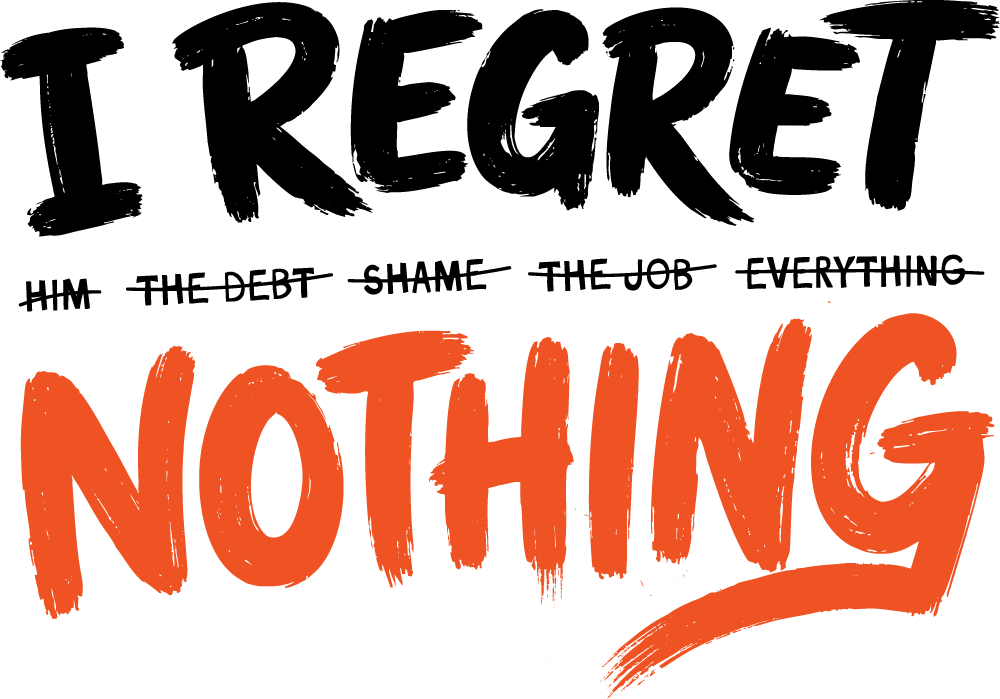
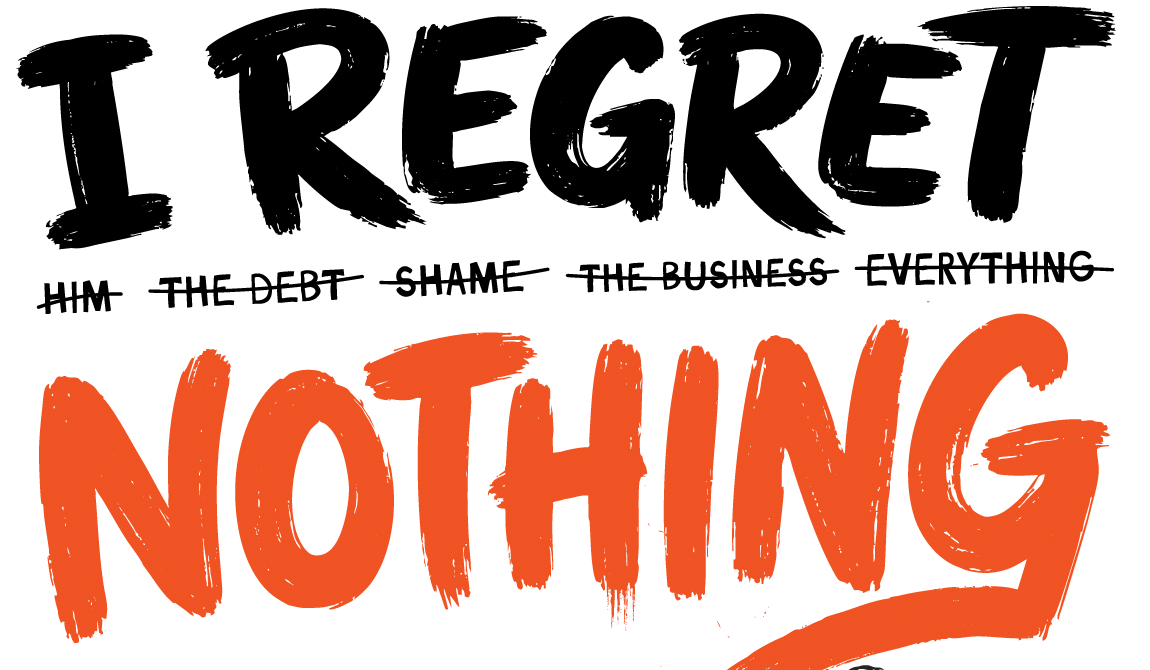
Add mobile-responsive layout and updated title graphic

diff --git a/Home.dc.html b/Home.dc.html
@@ -23,15 +23,25 @@
   a{color:inherit}
   input::placeholder{color:rgba(255,255,255,.5)}
   @keyframes irn-marquee{0%{transform:translateX(0)}100%{transform:translateX(-50%)}}
+  @media (max-width:760px){
+    .irn-nav{flex-direction:column;align-items:center;gap:12px}
+    .irn-navlinks{flex-wrap:wrap;justify-content:center;gap:10px 16px;font-size:13px}
+    .irn-stack{grid-template-columns:1fr !important;gap:32px !important}
+    .irn-stack-quote{margin-top:0 !important;transform:none !important;text-align:left}
+    .irn-marquee-txt{font-size:18px !important}
+  }
+  @media (max-width:460px){
+    .irn-navlinks{font-size:12px;gap:8px 12px}
+  }
 </style>
 </helmet>
 
 <div style="min-height:100vh;display:flex;flex-direction:column;overflow-x:hidden">
 
   <!-- ===================== NAV ===================== -->
-  <nav style="position:sticky;top:0;z-index:50;background:rgba(250,247,239,.92);backdrop-filter:blur(6px);border-bottom:2px dashed #161513;display:flex;align-items:center;justify-content:space-between;padding:16px clamp(20px,5vw,56px)">
+  <nav class="irn-nav" style="position:sticky;top:0;z-index:50;background:rgba(250,247,239,.92);backdrop-filter:blur(6px);border-bottom:2px dashed #161513;display:flex;align-items:center;justify-content:space-between;padding:16px clamp(20px,5vw,56px)">
     <a href="Home.dc.html" style="font-family:'French Aperitif';font-weight:700;font-size:24px;text-decoration:none;letter-spacing:.01em">i regret <span style="color:#E8451E">nothing</span></a>
-    <div style="display:flex;align-items:center;gap:clamp(14px,2.5vw,30px);font-family:'DM Mono';font-size:14px">
+    <div class="irn-navlinks" style="display:flex;align-items:center;gap:clamp(14px,2.5vw,30px);font-family:'DM Mono';font-size:14px">
       <a href="The Show.dc.html" style="text-decoration:none" style-hover="color:#E8451E">the show</a>
       <a href="Team.dc.html" style="text-decoration:none" style-hover="color:#E8451E">team</a>
       <a href="Tickets.dc.html" style="text-decoration:none" style-hover="color:#E8451E">tickets</a>
@@ -42,7 +52,7 @@
 
   <!-- ===================== HERO ===================== -->
   <header style="position:relative;padding:clamp(36px,6vw,72px) clamp(20px,5vw,56px) clamp(30px,4vw,52px);max-width:1240px;margin:0 auto;width:100%">
-    <div style="display:grid;grid-template-columns:minmax(0,1fr) clamp(240px,30%,360px);gap:clamp(24px,5vw,56px);align-items:center">
+    <div class="irn-stack" style="display:grid;grid-template-columns:minmax(0,1fr) clamp(240px,30%,360px);gap:clamp(24px,5vw,56px);align-items:center">
       <div>
         <div style="font-family:'DM Mono';font-size:15px;color:#E8451E;margin-bottom:20px;transform:rotate(-1deg);display:inline-block">a one-woman show ↓</div>
         <img src="assets/title.png" alt="I Regret Nothing — him, the debt, shame, the business, everything" style="width:100%;max-width:640px;display:block">
@@ -64,21 +74,21 @@
 
   <!-- ===================== DATE MARQUEE ===================== -->
   <div style="background:#161513;color:#FAF7EF;overflow:hidden;white-space:nowrap;padding:12px 0">
-    <div style="display:inline-block;white-space:nowrap;font-family:'French Aperitif';font-weight:700;font-size:22px;animation:irn-marquee 48s linear infinite">
+    <div class="irn-marquee-txt" style="display:inline-block;white-space:nowrap;font-family:'French Aperitif';font-weight:700;font-size:22px;animation:irn-marquee 48s linear infinite">
       <span style="padding-right:36px">SEPT 1–3 2026&nbsp;&nbsp;<span style="color:#E8451E">✦</span>&nbsp;&nbsp;NATIONAL UNION BUILDING&nbsp;&nbsp;<span style="color:#E8451E">✦</span>&nbsp;&nbsp;WASHINGTON D.C.&nbsp;&nbsp;<span style="color:#E8451E">✦</span></span><span style="padding-right:36px">SEPT 1–3 2026&nbsp;&nbsp;<span style="color:#E8451E">✦</span>&nbsp;&nbsp;NATIONAL UNION BUILDING&nbsp;&nbsp;<span style="color:#E8451E">✦</span>&nbsp;&nbsp;WASHINGTON D.C.&nbsp;&nbsp;<span style="color:#E8451E">✦</span></span><span style="padding-right:36px">SEPT 1–3 2026&nbsp;&nbsp;<span style="color:#E8451E">✦</span>&nbsp;&nbsp;NATIONAL UNION BUILDING&nbsp;&nbsp;<span style="color:#E8451E">✦</span>&nbsp;&nbsp;WASHINGTON D.C.&nbsp;&nbsp;<span style="color:#E8451E">✦</span></span><span style="padding-right:36px">SEPT 1–3 2026&nbsp;&nbsp;<span style="color:#E8451E">✦</span>&nbsp;&nbsp;NATIONAL UNION BUILDING&nbsp;&nbsp;<span style="color:#E8451E">✦</span>&nbsp;&nbsp;WASHINGTON D.C.&nbsp;&nbsp;<span style="color:#E8451E">✦</span></span><span style="padding-right:36px">SEPT 1–3 2026&nbsp;&nbsp;<span style="color:#E8451E">✦</span>&nbsp;&nbsp;NATIONAL UNION BUILDING&nbsp;&nbsp;<span style="color:#E8451E">✦</span>&nbsp;&nbsp;WASHINGTON D.C.&nbsp;&nbsp;<span style="color:#E8451E">✦</span></span><span style="padding-right:36px">SEPT 1–3 2026&nbsp;&nbsp;<span style="color:#E8451E">✦</span>&nbsp;&nbsp;NATIONAL UNION BUILDING&nbsp;&nbsp;<span style="color:#E8451E">✦</span>&nbsp;&nbsp;WASHINGTON D.C.&nbsp;&nbsp;<span style="color:#E8451E">✦</span></span>
     </div>
   </div>
 
   <!-- ===================== THE SHOW ===================== -->
   <section style="max-width:1240px;margin:0 auto;width:100%;padding:clamp(44px,6vw,84px) clamp(20px,5vw,56px)">
-    <div style="display:grid;grid-template-columns:minmax(0,1fr) clamp(220px,26%,300px);gap:clamp(28px,5vw,56px);align-items:start">
+    <div class="irn-stack" style="display:grid;grid-template-columns:minmax(0,1fr) clamp(220px,26%,300px);gap:clamp(28px,5vw,56px);align-items:start">
       <div>
         <div style="font-family:'DM Mono';font-size:13px;letter-spacing:.14em;text-transform:uppercase;color:#7c766a;margin-bottom:14px">the show</div>
         <h2 style="font-family:'French Aperitif';font-weight:700;font-size:clamp(34px,5vw,54px);line-height:1.02;margin:0 0 22px;max-width:16ch">A story about the things we put up with.</h2>
         <p style="font-size:clamp(16px,1.4vw,19px);line-height:1.75;max-width:60ch;color:#2e2c27;margin:0 0 18px">It's about the things people tolerate in relationships they never should've been in — and the shame that lingers long after. Sara's bet is simple: tell the truth out loud, and maybe everyone in the room feels a little less alone, and a lot less ashamed of things that were never theirs to carry.</p>
         <a href="The Show.dc.html" style="font-family:'DM Mono';font-size:15px;color:#E8451E;text-decoration:none;border-bottom:2px solid #E8451E;padding-bottom:2px">read what it's really about →</a>
       </div>
-      <div style="font-family:'French Aperitif';font-size:19px;line-height:1.35;color:#E8451E;transform:rotate(1.5deg);border-left:3px solid #E8451E;padding:4px 0 4px 16px;margin-top:36px">his name in her phone was <span style="font-weight:700">"Macho Gazpacho."</span> that's all you need to know.</div>
+      <div class="irn-stack-quote" style="font-family:'French Aperitif';font-size:19px;line-height:1.35;color:#E8451E;transform:rotate(1.5deg);border-left:3px solid #E8451E;padding:4px 0 4px 16px;margin-top:36px">his name in her phone was <span style="font-weight:700">"Macho Gazpacho."</span> that's all you need to know.</div>
     </div>
   </section>
 

diff --git a/index.html b/index.html
@@ -23,15 +23,25 @@
   a{color:inherit}
   input::placeholder{color:rgba(255,255,255,.5)}
   @keyframes irn-marquee{0%{transform:translateX(0)}100%{transform:translateX(-50%)}}
+  @media (max-width:760px){
+    .irn-nav{flex-direction:column;align-items:center;gap:12px}
+    .irn-navlinks{flex-wrap:wrap;justify-content:center;gap:10px 16px;font-size:13px}
+    .irn-stack{grid-template-columns:1fr !important;gap:32px !important}
+    .irn-stack-quote{margin-top:0 !important;transform:none !important;text-align:left}
+    .irn-marquee-txt{font-size:18px !important}
+  }
+  @media (max-width:460px){
+    .irn-navlinks{font-size:12px;gap:8px 12px}
+  }
 </style>
 </helmet>
 
 <div style="min-height:100vh;display:flex;flex-direction:column;overflow-x:hidden">
 
   <!-- ===================== NAV ===================== -->
-  <nav style="position:sticky;top:0;z-index:50;background:rgba(250,247,239,.92);backdrop-filter:blur(6px);border-bottom:2px dashed #161513;display:flex;align-items:center;justify-content:space-between;padding:16px clamp(20px,5vw,56px)">
+  <nav class="irn-nav" style="position:sticky;top:0;z-index:50;background:rgba(250,247,239,.92);backdrop-filter:blur(6px);border-bottom:2px dashed #161513;display:flex;align-items:center;justify-content:space-between;padding:16px clamp(20px,5vw,56px)">
     <a href="Home.dc.html" style="font-family:'French Aperitif';font-weight:700;font-size:24px;text-decoration:none;letter-spacing:.01em">i regret <span style="color:#E8451E">nothing</span></a>
-    <div style="display:flex;align-items:center;gap:clamp(14px,2.5vw,30px);font-family:'DM Mono';font-size:14px">
+    <div class="irn-navlinks" style="display:flex;align-items:center;gap:clamp(14px,2.5vw,30px);font-family:'DM Mono';font-size:14px">
       <a href="The Show.dc.html" style="text-decoration:none" style-hover="color:#E8451E">the show</a>
       <a href="Team.dc.html" style="text-decoration:none" style-hover="color:#E8451E">team</a>
       <a href="Tickets.dc.html" style="text-decoration:none" style-hover="color:#E8451E">tickets</a>
@@ -42,7 +52,7 @@
 
   <!-- ===================== HERO ===================== -->
   <header style="position:relative;padding:clamp(36px,6vw,72px) clamp(20px,5vw,56px) clamp(30px,4vw,52px);max-width:1240px;margin:0 auto;width:100%">
-    <div style="display:grid;grid-template-columns:minmax(0,1fr) clamp(240px,30%,360px);gap:clamp(24px,5vw,56px);align-items:center">
+    <div class="irn-stack" style="display:grid;grid-template-columns:minmax(0,1fr) clamp(240px,30%,360px);gap:clamp(24px,5vw,56px);align-items:center">
       <div>
         <div style="font-family:'DM Mono';font-size:15px;color:#E8451E;margin-bottom:20px;transform:rotate(-1deg);display:inline-block">a one-woman show ↓</div>
         <img src="assets/title.png" alt="I Regret Nothing — him, the debt, shame, the business, everything" style="width:100%;max-width:640px;display:block">
@@ -64,21 +74,21 @@
 
   <!-- ===================== DATE MARQUEE ===================== -->
   <div style="background:#161513;color:#FAF7EF;overflow:hidden;white-space:nowrap;padding:12px 0">
-    <div style="display:inline-block;white-space:nowrap;font-family:'French Aperitif';font-weight:700;font-size:22px;animation:irn-marquee 48s linear infinite">
+    <div class="irn-marquee-txt" style="display:inline-block;white-space:nowrap;font-family:'French Aperitif';font-weight:700;font-size:22px;animation:irn-marquee 48s linear infinite">
       <span style="padding-right:36px">SEPT 1–3 2026&nbsp;&nbsp;<span style="color:#E8451E">✦</span>&nbsp;&nbsp;NATIONAL UNION BUILDING&nbsp;&nbsp;<span style="color:#E8451E">✦</span>&nbsp;&nbsp;WASHINGTON D.C.&nbsp;&nbsp;<span style="color:#E8451E">✦</span></span><span style="padding-right:36px">SEPT 1–3 2026&nbsp;&nbsp;<span style="color:#E8451E">✦</span>&nbsp;&nbsp;NATIONAL UNION BUILDING&nbsp;&nbsp;<span style="color:#E8451E">✦</span>&nbsp;&nbsp;WASHINGTON D.C.&nbsp;&nbsp;<span style="color:#E8451E">✦</span></span><span style="padding-right:36px">SEPT 1–3 2026&nbsp;&nbsp;<span style="color:#E8451E">✦</span>&nbsp;&nbsp;NATIONAL UNION BUILDING&nbsp;&nbsp;<span style="color:#E8451E">✦</span>&nbsp;&nbsp;WASHINGTON D.C.&nbsp;&nbsp;<span style="color:#E8451E">✦</span></span><span style="padding-right:36px">SEPT 1–3 2026&nbsp;&nbsp;<span style="color:#E8451E">✦</span>&nbsp;&nbsp;NATIONAL UNION BUILDING&nbsp;&nbsp;<span style="color:#E8451E">✦</span>&nbsp;&nbsp;WASHINGTON D.C.&nbsp;&nbsp;<span style="color:#E8451E">✦</span></span><span style="padding-right:36px">SEPT 1–3 2026&nbsp;&nbsp;<span style="color:#E8451E">✦</span>&nbsp;&nbsp;NATIONAL UNION BUILDING&nbsp;&nbsp;<span style="color:#E8451E">✦</span>&nbsp;&nbsp;WASHINGTON D.C.&nbsp;&nbsp;<span style="color:#E8451E">✦</span></span><span style="padding-right:36px">SEPT 1–3 2026&nbsp;&nbsp;<span style="color:#E8451E">✦</span>&nbsp;&nbsp;NATIONAL UNION BUILDING&nbsp;&nbsp;<span style="color:#E8451E">✦</span>&nbsp;&nbsp;WASHINGTON D.C.&nbsp;&nbsp;<span style="color:#E8451E">✦</span></span>
     </div>
   </div>
 
   <!-- ===================== THE SHOW ===================== -->
   <section style="max-width:1240px;margin:0 auto;width:100%;padding:clamp(44px,6vw,84px) clamp(20px,5vw,56px)">
-    <div style="display:grid;grid-template-columns:minmax(0,1fr) clamp(220px,26%,300px);gap:clamp(28px,5vw,56px);align-items:start">
+    <div class="irn-stack" style="display:grid;grid-template-columns:minmax(0,1fr) clamp(220px,26%,300px);gap:clamp(28px,5vw,56px);align-items:start">
       <div>
         <div style="font-family:'DM Mono';font-size:13px;letter-spacing:.14em;text-transform:uppercase;color:#7c766a;margin-bottom:14px">the show</div>
         <h2 style="font-family:'French Aperitif';font-weight:700;font-size:clamp(34px,5vw,54px);line-height:1.02;margin:0 0 22px;max-width:16ch">A story about the things we put up with.</h2>
         <p style="font-size:clamp(16px,1.4vw,19px);line-height:1.75;max-width:60ch;color:#2e2c27;margin:0 0 18px">It's about the things people tolerate in relationships they never should've been in — and the shame that lingers long after. Sara's bet is simple: tell the truth out loud, and maybe everyone in the room feels a little less alone, and a lot less ashamed of things that were never theirs to carry.</p>
         <a href="The Show.dc.html" style="font-family:'DM Mono';font-size:15px;color:#E8451E;text-decoration:none;border-bottom:2px solid #E8451E;padding-bottom:2px">read what it's really about →</a>
       </div>
-      <div style="font-family:'French Aperitif';font-size:19px;line-height:1.35;color:#E8451E;transform:rotate(1.5deg);border-left:3px solid #E8451E;padding:4px 0 4px 16px;margin-top:36px">his name in her phone was <span style="font-weight:700">"Macho Gazpacho."</span> that's all you need to know.</div>
+      <div class="irn-stack-quote" style="font-family:'French Aperitif';font-size:19px;line-height:1.35;color:#E8451E;transform:rotate(1.5deg);border-left:3px solid #E8451E;padding:4px 0 4px 16px;margin-top:36px">his name in her phone was <span style="font-weight:700">"Macho Gazpacho."</span> that's all you need to know.</div>
     </div>
   </section>
 

diff --git a/Team.dc.html b/Team.dc.html
@@ -22,15 +22,23 @@
   ::selection{background:#E8451E;color:#fff}
   a{color:inherit}
   input::placeholder{color:#a8a196}
+  @media (max-width:760px){
+    .irn-nav{flex-direction:column;align-items:center;gap:12px}
+    .irn-navlinks{flex-wrap:wrap;justify-content:center;gap:10px 16px;font-size:13px}
+    .irn-stack{grid-template-columns:1fr !important;gap:24px !important}
+  }
+  @media (max-width:460px){
+    .irn-navlinks{font-size:12px;gap:8px 12px}
+  }
 </style>
 </helmet>
 
 <div style="min-height:100vh;display:flex;flex-direction:column;overflow-x:hidden">
 
   <!-- NAV -->
-  <nav style="position:sticky;top:0;z-index:50;background:rgba(250,247,239,.92);backdrop-filter:blur(6px);border-bottom:2px dashed #161513;display:flex;align-items:center;justify-content:space-between;padding:16px clamp(20px,5vw,56px)">
+  <nav class="irn-nav" style="position:sticky;top:0;z-index:50;background:rgba(250,247,239,.92);backdrop-filter:blur(6px);border-bottom:2px dashed #161513;display:flex;align-items:center;justify-content:space-between;padding:16px clamp(20px,5vw,56px)">
     <a href="Home.dc.html" style="font-family:'French Aperitif';font-weight:700;font-size:24px;text-decoration:none">i regret <span style="color:#E8451E">nothing</span></a>
-    <div style="display:flex;align-items:center;gap:clamp(14px,2.5vw,30px);font-family:'DM Mono';font-size:14px">
+    <div class="irn-navlinks" style="display:flex;align-items:center;gap:clamp(14px,2.5vw,30px);font-family:'DM Mono';font-size:14px">
       <a href="The Show.dc.html" style="text-decoration:none" style-hover="color:#E8451E">the show</a>
       <a href="Team.dc.html" style="text-decoration:none;color:#E8451E;border-bottom:2px solid #E8451E;padding-bottom:2px">team</a>
       <a href="Tickets.dc.html" style="text-decoration:none" style-hover="color:#E8451E">tickets</a>
@@ -47,7 +55,7 @@
 
   <!-- SARA -->
   <section style="max-width:1100px;margin:0 auto;width:100%;padding:clamp(24px,3vw,44px) clamp(20px,5vw,56px)">
-    <div style="display:grid;grid-template-columns:clamp(240px,34%,380px) minmax(0,1fr);gap:clamp(28px,5vw,56px);align-items:center">
+    <div class="irn-stack" style="display:grid;grid-template-columns:clamp(240px,34%,380px) minmax(0,1fr);gap:clamp(28px,5vw,56px);align-items:center">
       <div style="position:relative;transform:rotate(-1.5deg);justify-self:center">
         <div style="position:absolute;top:-16px;left:50%;margin-left:-58px;width:116px;height:26px;background:rgba(232,69,30,.32);transform:rotate(-3deg);z-index:2"></div>
         <div style="background:#fff;border:2px solid #161513;padding:14px 14px 10px;box-shadow:6px 8px 0 rgba(22,21,19,.14)">
@@ -66,7 +74,7 @@
 
   <!-- ANNA -->
   <section style="max-width:1100px;margin:0 auto;width:100%;padding:clamp(24px,3vw,44px) clamp(20px,5vw,56px)">
-    <div style="display:grid;grid-template-columns:clamp(240px,34%,380px) minmax(0,1fr);gap:clamp(28px,5vw,56px);align-items:center">
+    <div class="irn-stack" style="display:grid;grid-template-columns:clamp(240px,34%,380px) minmax(0,1fr);gap:clamp(28px,5vw,56px);align-items:center">
       <div style="order:2">
         <div style="font-family:'French Aperitif';font-weight:700;font-size:clamp(38px,5vw,60px);line-height:1">Anna Brosowsky</div>
         <div style="font-family:'DM Mono';font-size:14px;color:#E8451E;margin:6px 0 18px">director &amp; producer</div>
@@ -88,7 +96,7 @@
 
   <!-- LAURA -->
   <section style="max-width:1100px;margin:0 auto;width:100%;padding:clamp(24px,3vw,44px) clamp(20px,5vw,56px) clamp(40px,5vw,72px)">
-    <div style="display:grid;grid-template-columns:clamp(240px,34%,380px) minmax(0,1fr);gap:clamp(28px,5vw,56px);align-items:center">
+    <div class="irn-stack" style="display:grid;grid-template-columns:clamp(240px,34%,380px) minmax(0,1fr);gap:clamp(28px,5vw,56px);align-items:center">
       <div style="position:relative;transform:rotate(-1.5deg);justify-self:center">
         <div style="position:absolute;top:-16px;left:50%;margin-left:-58px;width:116px;height:26px;background:rgba(232,69,30,.32);transform:rotate(-3deg);z-index:2"></div>
         <div style="background:#fff;border:2px solid #161513;padding:14px 14px 10px;box-shadow:6px 8px 0 rgba(22,21,19,.14)">

diff --git a/The Show.dc.html b/The Show.dc.html
@@ -22,15 +22,24 @@
   ::selection{background:#E8451E;color:#fff}
   a{color:inherit}
   input::placeholder{color:#a8a196}
+  @media (max-width:760px){
+    .irn-nav{flex-direction:column;align-items:center;gap:12px}
+    .irn-navlinks{flex-wrap:wrap;justify-content:center;gap:10px 16px;font-size:13px}
+    .irn-stack{grid-template-columns:1fr !important;gap:32px !important}
+    .irn-unstick{position:static !important;transform:none !important}
+  }
+  @media (max-width:460px){
+    .irn-navlinks{font-size:12px;gap:8px 12px}
+  }
 </style>
 </helmet>
 
 <div style="min-height:100vh;display:flex;flex-direction:column;overflow-x:hidden">
 
   <!-- NAV -->
-  <nav style="position:sticky;top:0;z-index:50;background:rgba(250,247,239,.92);backdrop-filter:blur(6px);border-bottom:2px dashed #161513;display:flex;align-items:center;justify-content:space-between;padding:16px clamp(20px,5vw,56px)">
+  <nav class="irn-nav" style="position:sticky;top:0;z-index:50;background:rgba(250,247,239,.92);backdrop-filter:blur(6px);border-bottom:2px dashed #161513;display:flex;align-items:center;justify-content:space-between;padding:16px clamp(20px,5vw,56px)">
     <a href="Home.dc.html" style="font-family:'French Aperitif';font-weight:700;font-size:24px;text-decoration:none">i regret <span style="color:#E8451E">nothing</span></a>
-    <div style="display:flex;align-items:center;gap:clamp(14px,2.5vw,30px);font-family:'DM Mono';font-size:14px">
+    <div class="irn-navlinks" style="display:flex;align-items:center;gap:clamp(14px,2.5vw,30px);font-family:'DM Mono';font-size:14px">
       <a href="The Show.dc.html" style="text-decoration:none;color:#E8451E;border-bottom:2px solid #E8451E;padding-bottom:2px">the show</a>
       <a href="Team.dc.html" style="text-decoration:none" style-hover="color:#E8451E">team</a>
       <a href="Tickets.dc.html" style="text-decoration:none" style-hover="color:#E8451E">tickets</a>
@@ -48,7 +57,7 @@
 
   <!-- BODY -->
   <section style="max-width:1000px;margin:0 auto;width:100%;padding:clamp(20px,3vw,40px) clamp(20px,5vw,56px) clamp(30px,4vw,56px)">
-    <div style="display:grid;grid-template-columns:minmax(0,1fr) clamp(220px,28%,320px);gap:clamp(28px,5vw,56px);align-items:start">
+    <div class="irn-stack" style="display:grid;grid-template-columns:minmax(0,1fr) clamp(220px,28%,320px);gap:clamp(28px,5vw,56px);align-items:start">
       <div style="font-size:clamp(17px,1.5vw,20px);line-height:1.8;color:#2e2c27">
         <p style="margin:0 0 22px"><span style="font-family:'French Aperitif';font-weight:700;font-size:1.4em;float:left;line-height:.8;margin:6px 12px 0 0;color:#E8451E">I</span> Regret Nothing is a show about the things we put up with — the relationships we stay in too long, the versions of ourselves we shrink into, the stuff we swore we'd never tolerate and then quietly did anyway. And it's about the shame that shows up afterward, uninvited, and refuses to leave.</p>
         <p style="margin:0 0 22px">Sara Polon is the founder and CEO of a multi-million dollar company, a mentor, an entrepreneur who has built something real from nothing. She is also, for thirteen years, the girlfriend of a man whose name in her phone was <span style="background:#E8451E;color:#fff;padding:1px 6px;font-family:'DM Mono';font-size:.9em">Macho Gazpacho</span> — young, hot, and appropriately clichéd as a personal trainer.</p>
@@ -58,7 +67,7 @@
       </div>
 
       <!-- strikethrough motif card -->
-      <aside style="border:2px solid #161513;background:#fff;padding:24px;transform:rotate(1deg);position:sticky;top:96px">
+      <aside class="irn-unstick" style="border:2px solid #161513;background:#fff;padding:24px;transform:rotate(1deg);position:sticky;top:96px">
         <div style="font-family:'DM Mono';font-size:12px;letter-spacing:.12em;text-transform:uppercase;color:#7c766a;margin-bottom:14px">things she regrets</div>
         <div style="display:flex;flex-direction:column;gap:10px;font-family:'French Aperitif';font-weight:700;font-size:26px;color:#9a948a;line-height:1">
           <span style="text-decoration:line-through;text-decoration-color:#E8451E;text-decoration-thickness:3px">him</span>

diff --git a/Updates.dc.html b/Updates.dc.html
@@ -22,15 +22,23 @@
   ::selection{background:#E8451E;color:#fff}
   a{color:inherit}
   input::placeholder{color:#a8a196}
+  @media (max-width:760px){
+    .irn-nav{flex-direction:column;align-items:center;gap:12px}
+    .irn-navlinks{flex-wrap:wrap;justify-content:center;gap:10px 16px;font-size:13px}
+    .irn-stack{grid-template-columns:1fr !important;gap:36px !important}
+  }
+  @media (max-width:460px){
+    .irn-navlinks{font-size:12px;gap:8px 12px}
+  }
 </style>
 </helmet>
 
 <div style="min-height:100vh;display:flex;flex-direction:column;overflow-x:hidden">
 
   <!-- NAV -->
-  <nav style="position:sticky;top:0;z-index:50;background:rgba(250,247,239,.92);backdrop-filter:blur(6px);border-bottom:2px dashed #161513;display:flex;align-items:center;justify-content:space-between;padding:16px clamp(20px,5vw,56px)">
+  <nav class="irn-nav" style="position:sticky;top:0;z-index:50;background:rgba(250,247,239,.92);backdrop-filter:blur(6px);border-bottom:2px dashed #161513;display:flex;align-items:center;justify-content:space-between;padding:16px clamp(20px,5vw,56px)">
     <a href="Home.dc.html" style="font-family:'French Aperitif';font-weight:700;font-size:24px;text-decoration:none">i regret <span style="color:#E8451E">nothing</span></a>
-    <div style="display:flex;align-items:center;gap:clamp(14px,2.5vw,30px);font-family:'DM Mono';font-size:14px">
+    <div class="irn-navlinks" style="display:flex;align-items:center;gap:clamp(14px,2.5vw,30px);font-family:'DM Mono';font-size:14px">
       <a href="The Show.dc.html" style="text-decoration:none" style-hover="color:#E8451E">the show</a>
       <a href="Team.dc.html" style="text-decoration:none" style-hover="color:#E8451E">team</a>
       <a href="Tickets.dc.html" style="text-decoration:none" style-hover="color:#E8451E">tickets</a>
@@ -41,7 +49,7 @@
 
   <!-- MAIN -->
   <section style="flex:1;display:flex;align-items:center;justify-content:center;padding:clamp(40px,7vw,96px) clamp(20px,5vw,56px)">
-    <div style="max-width:1000px;width:100%;display:grid;grid-template-columns:minmax(0,1fr) clamp(220px,30%,300px);gap:clamp(28px,6vw,64px);align-items:center">
+    <div class="irn-stack" style="max-width:1000px;width:100%;display:grid;grid-template-columns:minmax(0,1fr) clamp(220px,30%,300px);gap:clamp(28px,6vw,64px);align-items:center">
       <div>
         <div style="font-family:'DM Mono';font-size:13px;letter-spacing:.14em;text-transform:uppercase;color:#7c766a;margin-bottom:16px">stay in the loop</div>
         <h1 style="font-family:'French Aperitif';font-weight:700;font-size:clamp(40px,6.5vw,80px);line-height:.98;margin:0">Don't regret missing it.</h1>

diff --git a/Tickets.dc.html b/Tickets.dc.html
@@ -22,15 +22,22 @@
   ::selection{background:#E8451E;color:#fff}
   a{color:inherit}
   input::placeholder{color:#a8a196}
+  @media (max-width:760px){
+    .irn-nav{flex-direction:column;align-items:center;gap:12px}
+    .irn-navlinks{flex-wrap:wrap;justify-content:center;gap:10px 16px;font-size:13px}
+  }
+  @media (max-width:460px){
+    .irn-navlinks{font-size:12px;gap:8px 12px}
+  }
 </style>
 </helmet>
 
 <div style="min-height:100vh;display:flex;flex-direction:column;overflow-x:hidden">
 
   <!-- NAV -->
-  <nav style="position:sticky;top:0;z-index:50;background:rgba(250,247,239,.92);backdrop-filter:blur(6px);border-bottom:2px dashed #161513;display:flex;align-items:center;justify-content:space-between;padding:16px clamp(20px,5vw,56px)">
+  <nav class="irn-nav" style="position:sticky;top:0;z-index:50;background:rgba(250,247,239,.92);backdrop-filter:blur(6px);border-bottom:2px dashed #161513;display:flex;align-items:center;justify-content:space-between;padding:16px clamp(20px,5vw,56px)">
     <a href="Home.dc.html" style="font-family:'French Aperitif';font-weight:700;font-size:24px;text-decoration:none">i regret <span style="color:#E8451E">nothing</span></a>
-    <div style="display:flex;align-items:center;gap:clamp(14px,2.5vw,30px);font-family:'DM Mono';font-size:14px">
+    <div class="irn-navlinks" style="display:flex;align-items:center;gap:clamp(14px,2.5vw,30px);font-family:'DM Mono';font-size:14px">
       <a href="The Show.dc.html" style="text-decoration:none" style-hover="color:#E8451E">the show</a>
       <a href="Team.dc.html" style="text-decoration:none" style-hover="color:#E8451E">team</a>
       <a href="Tickets.dc.html" style="text-decoration:none;color:#E8451E;border-bottom:2px solid #E8451E;padding-bottom:2px">tickets</a>